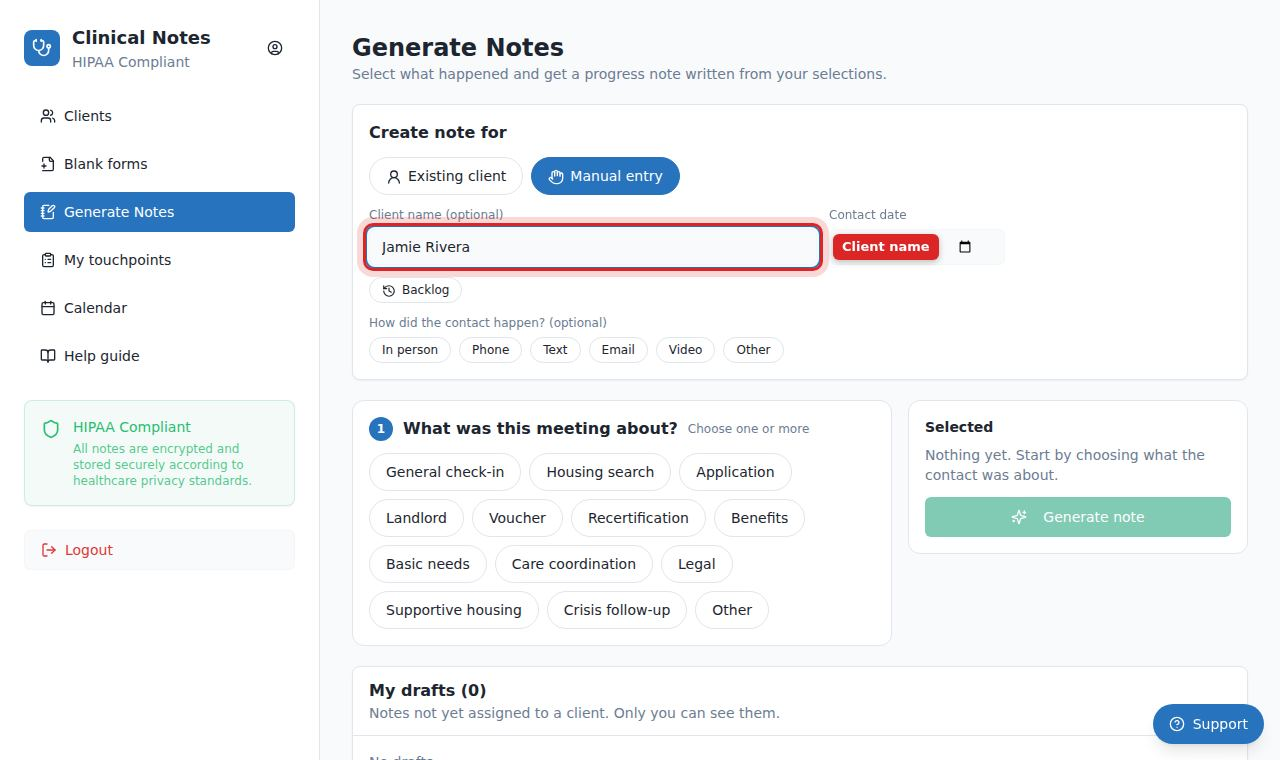
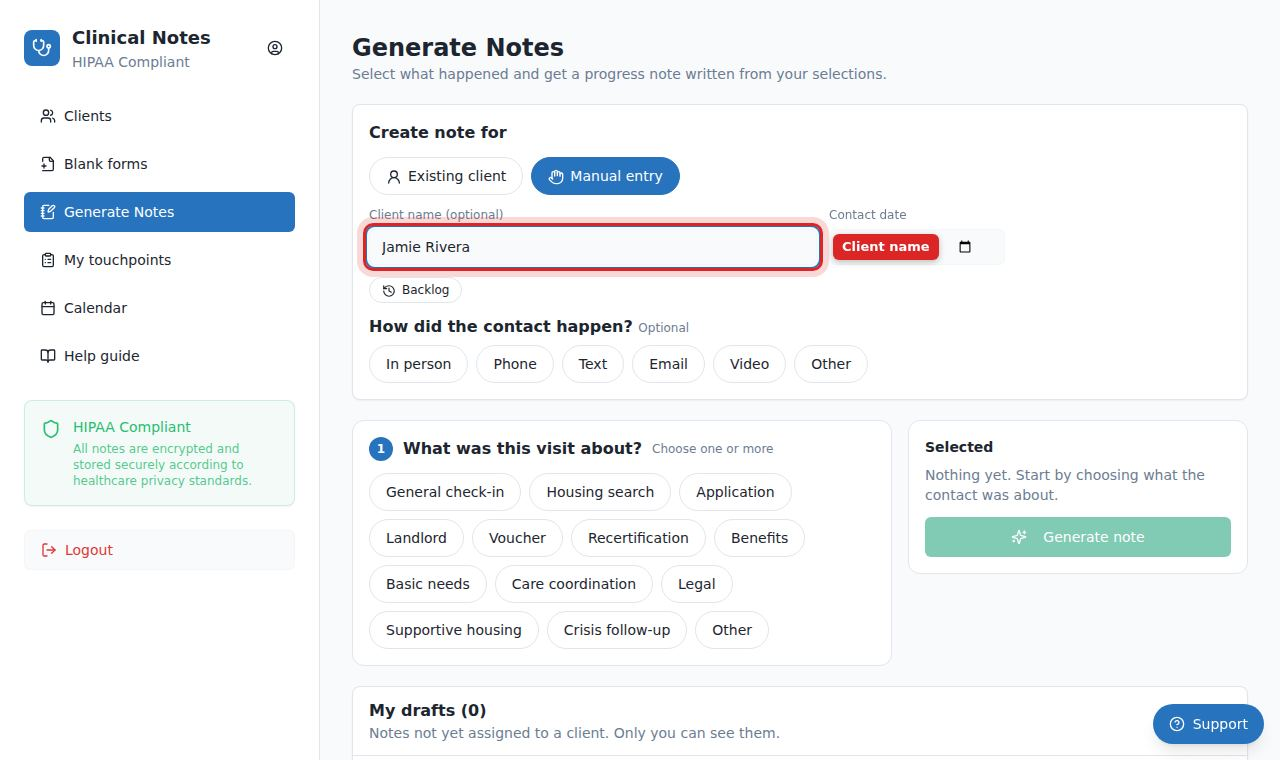
Generate Notes: visit wording, one thing per choice, larger contact question
- Step 1 reads What was this visit about?
- Choices that named two things are split, so notes never say "or":
  Contact agency / Contact provider, Contact landlord / Contact property,
  Parent / Guardian, Landlord / Property, Staying with family / friends,
  Repairs / Maintenance, Heat / Water / Power, Needs bus pass / fare,
  Car issue / License issue, Phone / Internet, Family / Support person.
  A test checks every choice and its note sentence for "or".
- How did the contact happen? is a full-size question with full-size
  choices.
CLAUDE.md records the no-"or" rule. Help guide text and screenshots
updated.

Claude-Session: https://claude.ai/code/session_012TZTkqWFZbcufo1uEC7hhK

diff --git a/src/lib/clinicalNotes/config.ts b/src/lib/clinicalNotes/config.ts
@@ -148,8 +148,11 @@ function communication(id: string, label: string, party: string): Item {
 }
 
 const APARTMENT_ISSUES: Record<string, string> = {
-  'Repairs or maintenance': 'repair issue',
-  'Heat, water, or power': 'heat, water or power issue',
+  Repairs: 'repair issue',
+  Maintenance: 'maintenance issue',
+  Heat: 'heat issue',
+  Water: 'water issue',
+  Power: 'power issue',
   Pests: 'pest issue',
   Safety: 'safety issue',
   Accessibility: 'accessibility issue',
@@ -169,7 +172,8 @@ const checkIn: Topic = {
       Searching: [`${TERMS.Client} is currently searching for housing.`, `${TERMS.Client} is searching for housing.`],
       'Temporary housing': [`${TERMS.Client} is in temporary housing.`, `${TERMS.Client} is currently in temporary housing.`],
       Shelter: [`${TERMS.Client} is staying in shelter.`, `${TERMS.Client} is currently staying in shelter.`],
-      'Staying with family or friends': [`${TERMS.Client} is staying with family or friends.`, `${TERMS.Client} is currently staying with family or friends.`],
+      'Staying with family': [`${TERMS.Client} is staying with family.`, `${TERMS.Client} is currently staying with family.`],
+      'Staying with friends': [`${TERMS.Client} is staying with friends.`, `${TERMS.Client} is currently staying with friends.`],
       'At risk': [`${TERMS.Client}'s housing is at risk.`, `${TERMS.Client}'s current housing is at risk.`],
       Other: ['Housing status was reviewed.', `${TERMS.Client}'s housing status was reviewed.`],
     }),
@@ -237,10 +241,12 @@ const checkIn: Topic = {
     }),
     simple('transportation', 'Transportation', 'What is the transportation situation?', {
       'Has reliable transportation': [`${TERMS.Client} has reliable transportation.`, 'Transportation is in place.'],
-      'Needs bus pass or fare': [`${TERMS.Client} needs a bus pass or fare.`, 'A bus pass or fare is needed.'],
+      'Needs bus pass': [`${TERMS.Client} needs a bus pass.`, 'A bus pass is needed.'],
+      'Needs fare': [`${TERMS.Client} needs transportation fare.`, 'Transportation fare is needed.'],
       'Needs rides to appointments': [`${TERMS.Client} needs rides to appointments.`, 'Transportation to appointments is needed.'],
       'No transportation': [`${TERMS.Client} has no transportation.`, `${TERMS.Client} is without transportation.`],
-      'Car or license issue': [`${TERMS.Client} has a car or license issue.`, 'A car or license issue was noted.'],
+      'Car issue': [`${TERMS.Client} has a car issue.`, 'A car issue was noted.'],
+      'License issue': [`${TERMS.Client} has a license issue.`, 'A license issue was noted.'],
     }),
     simple('food', 'Food access', "What is the client's food access?", {
       'Has enough food': [`${TERMS.Client} has enough food.`, 'Food needs are met.'],
@@ -579,12 +585,14 @@ const NEEDS: Record<string, Need> = {
         'Medical appointment': { noun: 'transportation to a medical appointment' },
         'Housing appointment': { noun: 'transportation to a housing appointment' },
         Work: { noun: 'transportation to work' },
-        'Bus pass or fare': { noun: 'a bus pass or fare' },
+        'Bus pass': { noun: 'a bus pass' },
+        Fare: { noun: 'transportation fare' },
         Other: { noun: 'transportation' },
       },
     },
   },
-  'Phone or internet': { id: 'phone_internet', noun: 'phone or internet service' },
+  Phone: { id: 'phone_internet', noun: 'phone service' },
+  Internet: { noun: 'internet service' },
   'Household items': { noun: 'household items', plural: true },
   Identification: { noun: 'identification' },
   Other: { noun: 'other basic needs', plural: true },
@@ -630,7 +638,8 @@ const CARE_PARTIES: Record<string, [string, string]> = {
   Shelter: ['shelter', 'the shelter'],
   'Housing authority': ['housing_authority', 'the housing authority'],
   'Benefits agency': ['benefits_agency', 'the benefits agency'],
-  'Family or support person': ['family_support', `the ${TERMS.client}'s family or support person`],
+  Family: ['family_support', `the ${TERMS.client}'s family`],
+  'Support person': ['support_person', `the ${TERMS.client}'s support person`],
   Other: ['other', 'another party'],
 };
 const CARE_PURPOSES: Record<string, string> = {
@@ -850,7 +859,7 @@ const otherTopic: Topic = {
   touchpointType: 'other',
   purpose: '',
   encourageFreeText: true,
-  items: [other('Other matters were addressed.', 'What was the meeting about?')],
+  items: [other('Other matters were addressed.', 'What was the visit about?')],
 };
 
 export const TOPICS: Topic[] = [
@@ -999,8 +1008,10 @@ export const NEXT_WHO_LABELS: Record<string, string> = { CM: TERMS.cm, Consumer:
 
 export const NEXT_CM: Record<string, string> = {
   'Follow up': 'follow up',
-  'Contact agency or provider': 'contact the agency or provider',
-  'Contact landlord or property': 'contact the landlord or property',
+  'Contact agency': 'contact the agency',
+  'Contact provider': 'contact the provider',
+  'Contact landlord': 'contact the landlord',
+  'Contact property': 'contact the property',
   'Check application': 'check on the application',
   'Submit documents': 'submit documents',
   'Research housing': 'research housing options',
@@ -1014,8 +1025,10 @@ export const NEXT_CONSUMER: Record<string, string> = {
   'Submit documents': 'submit documents',
   'Complete application': 'complete the application',
   'Attend appointment': 'attend the appointment',
-  'Contact provider or agency': 'contact the provider or agency',
-  'Contact landlord or property': 'contact the landlord or property',
+  'Contact provider': 'contact the provider',
+  'Contact agency': 'contact the agency',
+  'Contact landlord': 'contact the landlord',
+  'Contact property': 'contact the property',
   'Make payment': 'make a payment',
   'Review options': 'review options',
   Other: '',
@@ -1023,9 +1036,11 @@ export const NEXT_CONSUMER: Record<string, string> = {
 
 /** Who the third party is, as it reads in the note. */
 export const THIRD_PARTIES: Record<string, string> = {
-  'Parent or guardian': `the ${TERMS.client}'s parent or guardian`,
+  Parent: `the ${TERMS.client}'s parent`,
+  Guardian: `the ${TERMS.client}'s guardian`,
   'Family member': `a family member`,
-  'Landlord or property': 'the landlord or property',
+  Landlord: 'the landlord',
+  Property: 'the property',
   'Housing authority': 'the housing authority',
   Provider: 'the provider',
   MCO: `the ${TERMS.client}'s MCO`,

diff --git a/src/lib/helpGuides.ts b/src/lib/helpGuides.ts
@@ -193,7 +193,7 @@ export const GUIDES: Guide[] = [
     id: 'clinical-note', section: 'Touchpoints', title: 'Write a clinical note', audience: 'everyone', minutes: 2,
     steps: [
       s('Select Clinical note', 'Open the client, select the Touchpoints tab, then select Clinical note.'),
-      s('Choose the topic', 'Select what the meeting was about. If you choose more than one, the star marks the main focus.'),
+      s('Choose the topic', 'Select what the visit was about. If you choose more than one, the star marks the main focus.'),
       s('Pick what you talked about', 'Select each topic you discussed and answer its questions, one choice at a time. Select a chosen answer to change it.'),
       s('Add the rest', 'Select what CM did, the result, how the client responded and who is responsible for the next step. These cover the whole contact, across all topics. Select Skip for anything that does not apply.'),
       s('Generate the note', 'Select Generate note. It uses only your selections. Select Regenerate wording for different phrasing, or Edit note to change it.'),

diff --git a/src/pages/ClinicalNotes.tsx b/src/pages/ClinicalNotes.tsx
@@ -307,10 +307,12 @@ export default function ClinicalNotes() {
 
           {mode === 'draft' && (
             <div className="space-y-1.5">
-              <p className="text-xs text-muted-foreground">How did the contact happen? (optional)</p>
+              <h3 className="font-semibold">
+                How did the contact happen? <span className="text-xs font-normal text-muted-foreground">Optional</span>
+              </h3>
               <div className="flex flex-wrap gap-2">
                 {CONTACT_METHOD_OPTIONS.map((m) => (
-                  <Chip key={m.value} size="sm" selected={method === m.value} onClick={() => setMethod(method === m.value ? null : m.value)}>
+                  <Chip key={m.value} selected={method === m.value} onClick={() => setMethod(method === m.value ? null : m.value)}>
                     {m.label}
                   </Chip>
                 ))}

diff --git a/src/components/clinicalNotes/NoteComposer.tsx b/src/components/clinicalNotes/NoteComposer.tsx
@@ -365,7 +365,7 @@ export const NoteComposer: React.FC<Props> = ({ method, initial, useLabel, onUse
     <div className="grid items-start gap-4 lg:grid-cols-[minmax(0,1fr)_340px]">
       <div className="min-w-0 space-y-3">
         {/* 1. Topic */}
-        <Step n={1} title="What was this meeting about?" hint={draft.topics.length > 1 ? '★ marks the main focus' : 'Choose one or more'}>
+        <Step n={1} title="What was this visit about?" hint={draft.topics.length > 1 ? '★ marks the main focus' : 'Choose one or more'}>
           <div className="flex flex-wrap gap-2">
             {TOPICS.map((t) => {
               const on = draft.topics.includes(t.id);

diff --git a/CLAUDE.md b/CLAUDE.md
@@ -31,6 +31,8 @@ guides, and superadmins also get the filter buttons.
   (`src/lib/clinicalNotes`). Never add wording that states a fact nobody
   selected (mood, cooperation, outcomes, names). `tests/clinical-notes.test.mjs`
   checks this; extend it with any new topic or option.
+- Each choice names one thing ("Contact agency", "Contact provider"), never
+  "X or Y", so the note never says "or". The tests check this.
 - The optional AI rewording (`supabase/functions/clinical-note-wording`) runs
   only when `ANTHROPIC_API_KEY` is set, and must stay under a HIPAA BAA. It
   rewords the app's draft and is rejected if it adds a name, number or date.
